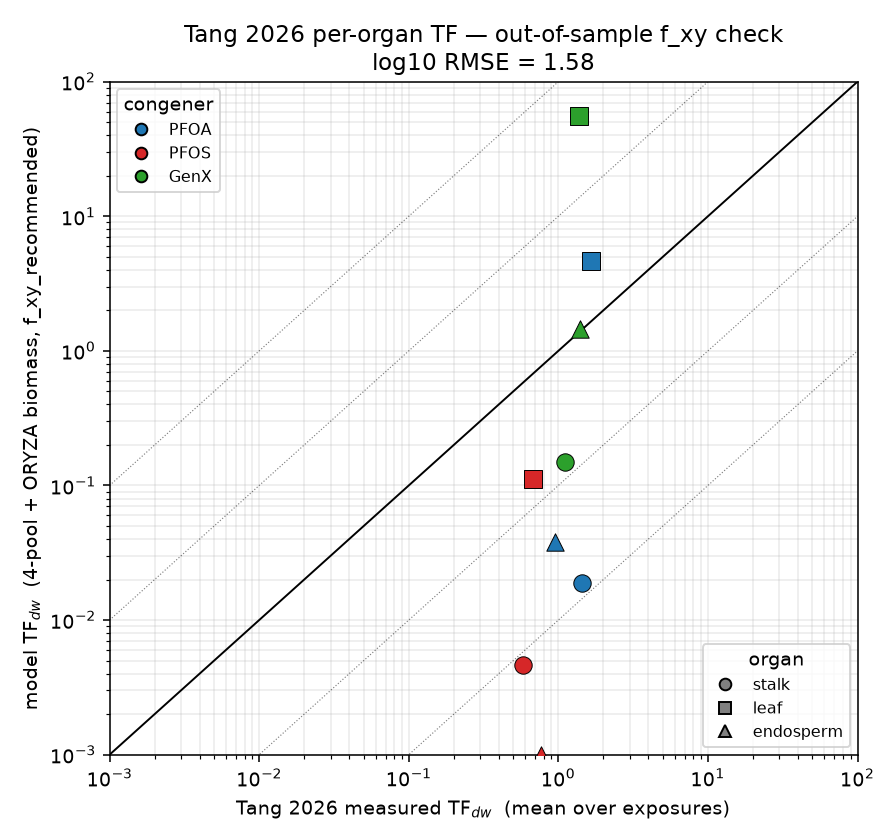
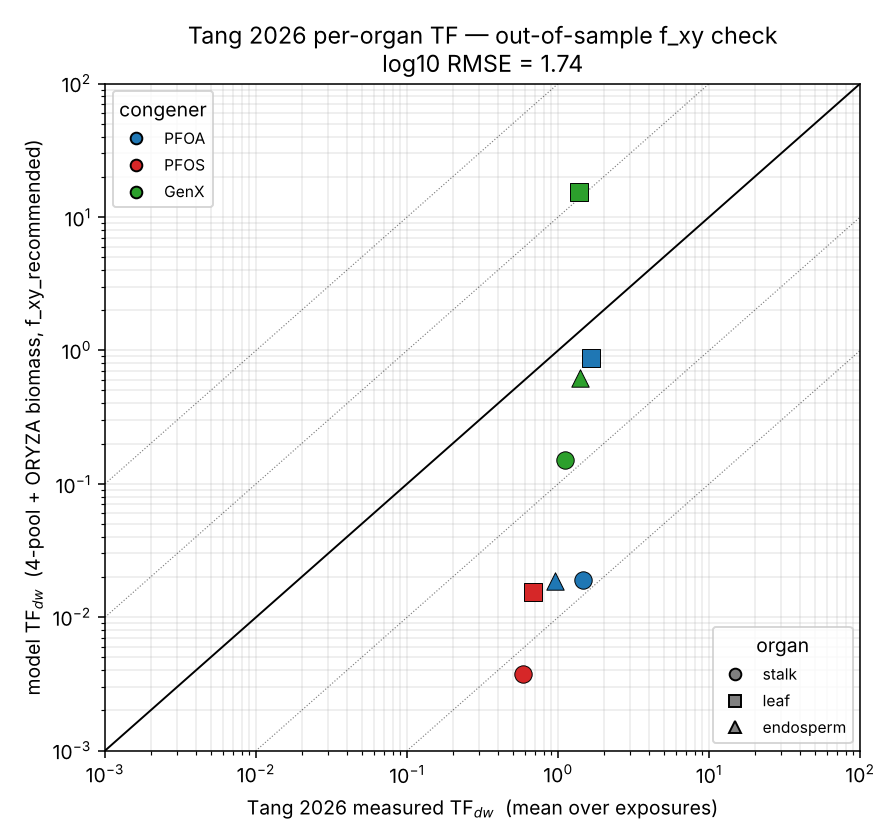
Tang: endosperm as milled rice (named option), 150-day season
- tang_tf_validation(endosperm="brown"|"white"), default brown because
  Tang does not report its milling method. "white" re-partitions the
  grain's free concentration into a white-rice composition, counting
  membrane phospholipid the way the grain_brown row counts it (the
  grain_white row's 0.003 is starch-complexed lyso-PL, a pool the brown
  row leaves out).
- Factor PFOA 0.33 / PFOS 0.25 / GenX 0.66, and every Tang score gets
  worse (lipid 0.520 -> 0.700, refit 0.327 -> 0.513). Composition does
  not close the grain gap; if the endosperm is milled, the gap is larger.
- tang2026_fxy_TF_validation.py used 120 days; Tang's cycle is 150
  (4-pool Tang TF 1.90 -> 1.74).
- The rinse-only root caveat is recorded in tang_tf_validation.

Claude-Session: https://claude.ai/code/session_013b8P7j4Mwgr9L9hKoQBuRB

diff --git a/src/model_api.py b/src/model_api.py
@@ -237,6 +237,41 @@ _TANG_TF_ENDPOINT = {"TF_stalk": "stalk", "TF_leaf": "leaf", "TF_endosperm": "en
 # (model grain pool, Tang organ name, theta key) for the fresh->dry conversion
 _TANG_ORGANS = (("stem", "stalk", "stem"), ("leaf", "leaf", "leaf"), ("grain", "endosperm", "grain_brown"))
 
+# What Tang's "endosperm" is compared against. The model's grain pool is the whole
+# caryopsis (BROWN rice). Tang's endosperm is most likely MILLED (white) rice -- its SI
+# cites white-rice moisture -- but the milling method is not reported, so "brown" stays the
+# default and "white" is the named alternative (docs/sampling_protocols_audit_KR.md).
+#   "white" re-partitions the grain's free concentration into an endosperm of white-rice
+#   composition (params/rice_tissue_params.csv grain_white: theta 0.11, protein 0.075, cell
+#   wall 0.005 + lignin 0.001), assuming bran and endosperm share one free concentration.
+#   Membrane phospholipid is counted the way the grain_brown row counts it: that row puts
+#   ~80% of brown rice's membrane PL in the bran/embryo, so the endosperm (~88% of brown dw)
+#   carries 0.2*f_PL_brown/0.88. The grain_white row's own 0.003 is mostly starch-complexed
+#   lyso-PL, which the brown row does NOT count -- using it would compare two different PL pools.
+TANG_ENDOSPERM = ("brown", "white")
+_ENDO_PL_BRAN_SHARE, _ENDO_MASS_SHARE = 0.80, 0.88
+
+
+def _grain_white_composition():
+    b = _COMP["grain_brown"]
+    return dict(theta_fw=0.11, f_prot=0.075, f_cw=0.006,
+                f_PL=(1.0 - _ENDO_PL_BRAN_SHARE) * b["f_PL"] / _ENDO_MASS_SHARE)
+
+
+def _dry_binding(comp, c, K_cw):
+    """C_dw / Cw for a tissue composition: theta/(1-theta) + sum f*K (L/kg dw)."""
+    th = comp["theta_fw"]
+    return (th / (1.0 - th) + comp["f_prot"] * c["K_prot_Lkg"]
+            + comp["f_PL"] * c["K_PL_Lkg"] + comp["f_cw"] * K_cw)
+
+
+def endosperm_white_factor(congener, K_cw_organ="stem"):
+    """White-rice/brown-rice DRY concentration ratio at a shared free concentration."""
+    c = _CONG[congener]
+    K_cw = c["K_cw_wholecw_Lkg"][K_cw_organ]
+    return (_dry_binding(_grain_white_composition(), c, K_cw)
+            / _dry_binding(_COMP["grain_brown"], c, K_cw))
+
 
 def tang_observed_tf(congener, dose="mean"):
     """Tang 2026 MEASURED per-organ TF (DRY weight) -> {stalk,leaf,endosperm: TF}, or {}.
@@ -261,7 +296,7 @@ def tang_observed_tf(congener, dose="mean"):
 
 def tang_tf_validation(congener, f_xy_source="recommended", use_refit=False,
                        dose="mean", biomass="oryza", season=150.0, lipid_loading=False,
-                       mass_basis=DEFAULT_MASS_BASIS):
+                       mass_basis=DEFAULT_MASS_BASIS, endosperm="brown"):
     """Model per-organ transfer factor (DRY-weight) vs Tang 2026, for a Tang congener.
 
     The model conc is fresh-weight (C=B_k*Cw, basis A); Tang TF is dry/dry, and the
@@ -272,10 +307,15 @@ def tang_tf_validation(congener, f_xy_source="recommended", use_refit=False,
     the Tang-calibrated f_xy override. ``lipid_loading`` turns on the K_PL-gated
     lipid-facilitated loading mechanism (constants fit on Yamazaki, NOT Tang -> applying it
     here is out-of-sample; see validation/oos_tang_lipid.py). Returns None for non-Tang congeners.
-    NOTE: grain/endosperm is structurally under-predicted ~3-8x (docs/tang2026_grain_units_exploration.md).
+    ``endosperm`` -- 'brown' (default; the model's whole-caryopsis grain) or 'white' (milled
+    rice; see TANG_ENDOSPERM). NOTE Tang's roots were rinsed only, so its root -- the TF
+    denominator -- may carry surface-sorbed PFAS (no Fe/Mn plaque removal; same confound as
+    Li 2025), which would bias every Tang TF low.
     """
     if congener not in TANG_CONGENERS:
         return None
+    if endosperm not in TANG_ENDOSPERM:
+        raise ValueError(f"unknown endosperm {endosperm!r}; expected one of {TANG_ENDOSPERM}")
     refit = tang_refit_fxy(mass_basis)
     fxy = refit[congener] if use_refit else None
     r = simulate_nstem_leaf(congener, Cwo=1.0, season=season, biomass_fn=_biomass_fn(biomass),
@@ -284,10 +324,13 @@ def tang_tf_validation(congener, f_xy_source="recommended", use_refit=False,
     froot = 1.0 - _COMP["root"]["theta_fw"]
     model = {org: r["tf_final"][mk] * froot / (1.0 - _COMP[tk]["theta_fw"])
              for mk, org, tk in _TANG_ORGANS}
+    if endosperm == "white":            # simulate_nstem_leaf's default K_cw_organ is "stem"
+        model["endosperm"] *= endosperm_white_factor(congener, K_cw_organ="stem")
     return dict(congener=congener, organs=[o for _, o, _ in _TANG_ORGANS],
                 model_tf=model, tang_tf=tang_observed_tf(congener, dose),
                 f_xy=float(r["params"]["f_xy"]), use_refit=bool(use_refit), dose=dose,
-                biomass=biomass, refit_fxy=refit[congener], mass_basis=mass_basis)
+                biomass=biomass, refit_fxy=refit[congener], mass_basis=mass_basis,
+                endosperm=endosperm)
 
 
 def chain_table():

diff --git a/tests/test_tang_endosperm.py b/tests/test_tang_endosperm.py
@@ -1,0 +1,66 @@
+"""What Tang 2026's "endosperm" is compared against (model_api.TANG_ENDOSPERM).
+
+The model's grain pool is the whole caryopsis (brown rice); Tang's endosperm is most
+likely milled white rice, but the milling method is not reported. So "brown" stays the
+default and "white" is the named alternative, which re-partitions the grain's free
+concentration into a white-rice composition with membrane phospholipid counted the way
+the grain_brown row counts it.
+
+Pinned: the default is unchanged; the white composition is derived as documented; and
+the finding -- the white reading LOWERS the model endosperm 1.5-4x, so the documented
+grain under-prediction gets WORSE, not better (lipid OOS 0.520 -> 0.700).
+"""
+import os
+import sys
+
+import numpy as np
+import pytest
+
+ROOT = os.path.dirname(os.path.dirname(os.path.abspath(__file__)))
+sys.path.insert(0, os.path.join(ROOT, "src"))
+
+import model_api as api  # noqa: E402
+
+
+def _rmse(**kw):
+    e = []
+    for c in api.TANG_CONGENERS:
+        v = api.tang_tf_validation(c, dose="low", **kw)
+        e += [np.log10(v["model_tf"][o]) - np.log10(v["tang_tf"][o]) for o in v["organs"]]
+    return float(np.sqrt(np.mean(np.square(e))))
+
+
+def test_default_is_brown_and_unchanged():
+    a = api.tang_tf_validation("PFOA", dose="low")
+    b = api.tang_tf_validation("PFOA", dose="low", endosperm="brown")
+    assert a["endosperm"] == "brown"
+    assert a["model_tf"] == b["model_tf"]
+    with pytest.raises(ValueError):
+        api.tang_tf_validation("PFOA", endosperm="husked")
+
+
+def test_white_composition_counts_membrane_pl_like_the_brown_row():
+    w = api._grain_white_composition()
+    brown_pl = api._COMP["grain_brown"]["f_PL"]
+    assert w["f_PL"] == pytest.approx(0.2 * brown_pl / 0.88)
+    assert w["f_PL"] < brown_pl                       # bran/embryo PL milled away
+    assert (w["theta_fw"], w["f_prot"], w["f_cw"]) == (0.11, 0.075, 0.006)
+
+
+def test_white_lowers_the_endosperm_most_for_the_high_kpl_sulfonate():
+    f = {c: api.endosperm_white_factor(c) for c in api.TANG_CONGENERS}
+    assert all(v < 0.7 for v in f.values()), f
+    assert f["PFOS"] < f["PFOA"] < f["GenX"], f       # K_PL 31623 > 1905 > 118
+    v = api.tang_tf_validation("PFOS", dose="low", endosperm="white")
+    vb = api.tang_tf_validation("PFOS", dose="low")
+    assert v["model_tf"]["endosperm"] == pytest.approx(vb["model_tf"]["endosperm"] * f["PFOS"])
+    assert v["model_tf"]["stalk"] == vb["model_tf"]["stalk"]   # only the endosperm moves
+
+
+def test_the_white_reading_makes_the_grain_gap_worse():
+    assert _rmse(lipid_loading=True) == pytest.approx(0.520, abs=0.02)
+    assert _rmse(lipid_loading=True, endosperm="white") == pytest.approx(0.700, abs=0.03)
+
+
+if __name__ == "__main__":
+    sys.exit(pytest.main([__file__, "-v"]))

diff --git a/validation/tang2026_fxy_TF_validation.py b/validation/tang2026_fxy_TF_validation.py
@@ -48,7 +48,8 @@ sys.path.insert(0, os.path.join(ROOT, "src"))
 import model_api as api            # noqa: E402
 import oryza_growth as og          # noqa: E402
 
-SEASON = 120.0
+SEASON = 150.0     # Tang's growth cycle (the paper, model_api.tang_tf_validation, tang2026_fxy_refit);
+                   # this script used 120 d until the sampling-protocol audit caught it
 CONGENERS = ["PFOA", "PFOS", "GenX"]
 # model organ -> (theta key, Tang organ name)
 ORGAN_MAP = {"stem": ("stem", "stalk"), "leaf": ("leaf", "leaf"), "grain": ("grain_brown", "endosperm")}

diff --git a/docs/tang2026_grain_units_exploration.md b/docs/tang2026_grain_units_exploration.md
@@ -110,3 +110,21 @@ the **filling grain** (endosperm vs aleurone vs pericarp), and phloem-sap [PFAS]
 peduncle, to decide between (i) higher effective `B_grain` and (ii) active phloem
 unloading. Until then, grain TF should be reported as an **order-of-magnitude** quantity
 with this known low bias (~3–8× for PFCA/PFSA on a dry-weight basis).
+
+## 6. Fresh organ mass and the white-rice reading (2026-10)
+The ~3–8× figure above is on the pre-fix DRY organ mass. On fresh mass the gap is
+model-dependent: with the lipid term the endosperm is 2.8× (PFOA) / 5.8× (PFOS) under,
+with the Tang-refit `f_xy` PFOA closes (1.61 vs 1.37) and PFOS is ~4× under.
+
+Tang's endosperm is most likely MILLED rice (its SI cites white-rice moisture), while the
+model's grain pool is the whole caryopsis. `tang_tf_validation(endosperm="white")`
+re-partitions the grain's free concentration into a white-rice composition
+(`model_api.TANG_ENDOSPERM`; membrane phospholipid counted the way the `grain_brown` row
+counts it — the `grain_white` row's own 0.003 is mostly starch-complexed lyso-PL, a pool
+the brown row excludes). It LOWERS the model endosperm 1.5–4× (factor PFOA 0.33, PFOS
+0.25, GenX 0.66) and makes every Tang score worse: lipid 0.520 → 0.700, refit 0.327 →
+0.513, free anion 1.483 → 1.647. So composition does not close the grain gap; if the
+endosperm is milled, the gap is larger. Measured endosperm TF ≥ 1 with a white-rice
+composition would mean bran and endosperm do NOT share one free concentration — phloem
+solute retained in the filling endosperm, i.e. the open follow-up in §5. Default stays
+"brown" because the milling method is not reported (`tests/test_tang_endosperm.py`).
